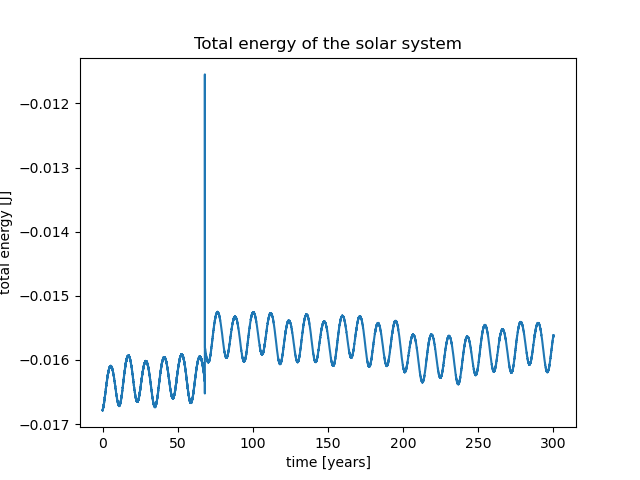
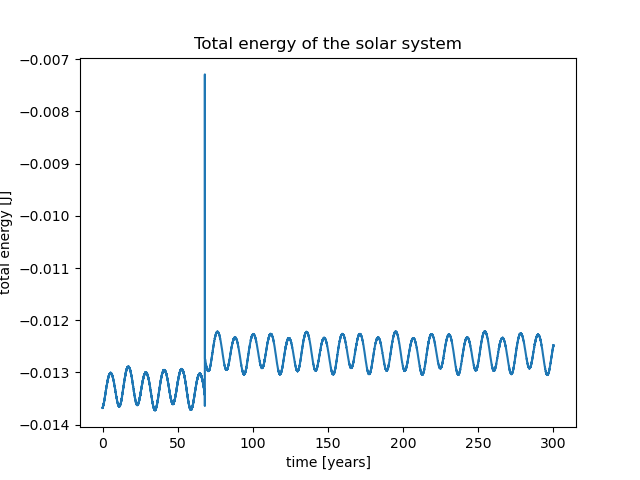
found error in the masses

diff --git a/Project_1/whole_solarsystem_python_rnge_kutta.py b/Project_1/whole_solarsystem_python_rnge_kutta.py
@@ -22,7 +22,10 @@ eph = SPK.open('Project_1/de102.bsp')
 names=["Mercury","Venus","Earth","Mars","Jupiter","Saturn","Uranus","Neptune","Pluto","Sun"]
 positions=[1,2,3,4,5,6,7,8,9,10]
 colors=["red","orange","blue","grey","green","purple","pink","brown","black","yellow"]
-masses = [0.16601e-6, 2.4478383e-6, 3.0404326e-6, 0.3227151e-6, 0.95479194e-3, 0.2858850e-3, 0.43e-3, 0.51e-3, 0.57e-3, 1.0]
+#planet and sun masses in kg
+masses = [3.3011e23,4.8675e24,5.97237e24,6.4171e23,1.8986e27,5.6834e26,8.6810e25,1.0243e26,1.309e22,1.989e30]
+masses=[x/masses[-1] for x in masses]
+
 x = []
 y = []
 z = []
@@ -60,7 +63,15 @@ v_x=v_x-v_x[9]
 v_y=v_y-v_y[9]
 v_z=v_z-v_z[9]
 
-
+for i in range(len(names)):
+    if names[i] == "Sun":
+        mass = str(1)
+    elif masses[i] <0:
+        mass = str(masses[i])
+    else:
+        mass = ("%.3g" %(masses[i]))
+    print(names[i]+" & " +mass +" & "+  str(round((x[i]),2) )+ " & " + str(round((y[i]),2) )+ " & " + str(round((z[i]),2) )+ " & " + str(round((v_x[i]),2) )+ " & " + str(round((v_y[i]),2) )+ " & " + str(round((v_z[i]),2) )+ " \\\\" + "\\hline")
+"""
 
 W=np.zeros((len(x),6))
 
@@ -253,7 +264,7 @@ plt.close()
 
 
 
-#"""
+
 fig = plt.figure()
 ax = fig.add_subplot(111, projection='3d')
 
@@ -326,7 +337,7 @@ plt.show()
 
 
 
-
+#"""
 
 
 

diff --git a/Project_1/whole_solarsystem.py b/Project_1/whole_solarsystem.py
@@ -22,7 +22,8 @@ eph = SPK.open('Project_1/de102.bsp')
 names=["Mercury","Venus","Earth","Mars","Jupiter","Saturn","Uranus","Neptune","Pluto","Sun"]
 positions=[1,2,3,4,5,6,7,8,9,10]
 colors=["red","orange","blue","grey","green","purple","pink","brown","black","yellow"]
-masses = [0.16601e-6, 2.4478383e-6, 3.0404326e-6, 0.3227151e-6, 0.95479194e-3, 0.2858850e-3, 0.43e-3, 0.51e-3, 0.57e-3, 1.0]
+masses = [3.3011e23,4.8675e24,5.97237e24,6.4171e23,1.8986e27,5.6834e26,8.6810e25,1.0243e26,1.309e22,1.989e30]
+masses=[x/masses[-1] for x in masses]
 x = []
 y = []
 z = []
